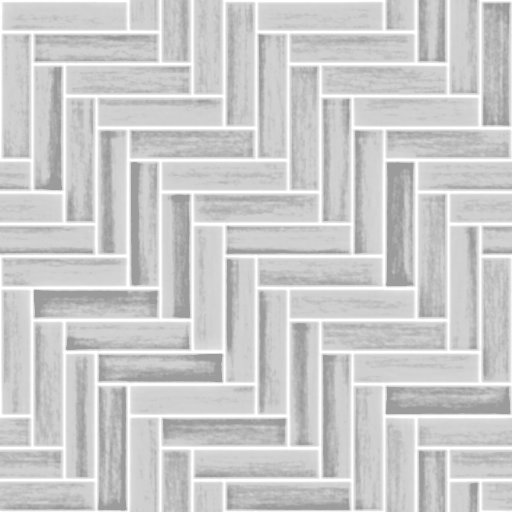
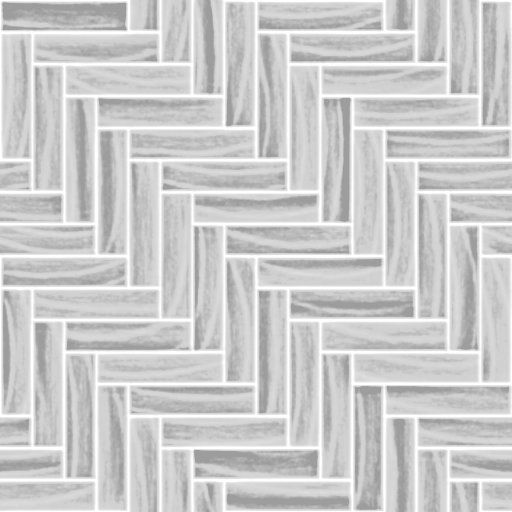
Salle 3D : parquet en chevrons veiné, tables en arc nappées, grille d’édition discrète
- Parquets en chevrons (gris, greige, chêne, miel) : vrai veinage de dosse en ogives
  au lieu de fibres droites ; le chevron gris passe sur une palette de chêne cérusé
  resserrée (l’ancienne, trop contrastée, lisait comme du métal brossé).
- Tables en arc : plateau continu (plus de 12 pavés à facettes), nappe en lin qui
  tombe jusqu’au sol avec plis évasés, retombées aux extrémités ; plateau nu sur
  pieds quand la table n’est pas nappée.
- Grille d’édition 3D translucide : elle guide la pose sans quadriller le sol.

Claude-Session: https://claude.ai/code/session_013pZHjhSB9CbZ2LPV2WquZo

diff --git a/frontend/src/components/roomCelebrationMeshes.tsx b/frontend/src/components/roomCelebrationMeshes.tsx
@@ -1,9 +1,10 @@
 'use client';
 
-import React, { useMemo, useRef } from 'react';
+import React, { useEffect, useMemo, useRef } from 'react';
 import { useFrame } from '@react-three/fiber';
 import * as THREE from 'three';
 import { loadTiledTexture } from '@/lib/roomWebGLMaterials';
+import { withRepeat } from '@/lib/roomSurfaceFinish';
 import { bulbColor, bulbsAlongSpan, stringLightPlan, type StringLightLayout, type StringLightMount, type StringLightStyle } from '@/lib/roomStringLights';
 
 const GOLD = '#c9a227';
@@ -236,42 +237,161 @@ export function arcTableRadius(size: [number, number]): number {
   return Math.max(1.4, size[0] / 2);
 }
 
-/** Plateau en C pour tables de gala organique. */
+/** Jupe de nappe courbe (secteur de cylindre ouvert) avec plis verticaux qui s’évasent vers le sol. */
+function arcSkirtGeometry(radius: number, height: number, flare: number, foldDepth: number): THREE.BufferGeometry {
+  const radial = Math.max(48, Math.round((ARC_SWEEP * radius) / 0.05));
+  const geom = new THREE.CylinderGeometry(radius, radius, height, radial, 4, true, ARC_START, ARC_SWEEP);
+  const pos = geom.attributes.position as THREE.BufferAttribute;
+  const foldsPerM = 1 / 0.24;
+  for (let i = 0; i < pos.count; i += 1) {
+    const x = pos.getX(i);
+    const y = pos.getY(i);
+    const z = pos.getZ(i);
+    const theta = Math.atan2(x, z);
+    // 0 sous le plateau, 1 au ras du sol : les plis naissent sous le bord et se creusent en tombant.
+    const f = THREE.MathUtils.clamp(0.5 - y / height, 0, 1);
+    const fold = Math.sin(theta * radius * foldsPerM * Math.PI * 2) * foldDepth * Math.pow(f, 1.4);
+    const r = radius + flare * f * f + fold;
+    pos.setXYZ(i, Math.sin(theta) * r, y, Math.cos(theta) * r);
+  }
+  geom.computeVertexNormals();
+  return geom;
+}
+
+/** Plateau en C pour tables de gala organique : plateau continu, nappe tombante plissée. */
 export function CatalogueArcTable({
   size,
   topY,
   color,
   selected,
+  cloth = true,
+  map,
+  normalMap,
 }: {
   size: [number, number];
   topY: number;
   color: string;
   selected: boolean;
+  /** Nappe jusqu’au sol (lin) ; sinon plateau nu sur ceinture et pieds. */
+  cloth?: boolean;
+  map?: THREE.Texture | null;
+  normalMap?: THREE.Texture | null;
 }) {
   const radius = arcTableRadius(size);
   const thick = Math.min(0.72, Math.max(0.48, size[1] * 0.38));
-  const segs = 12;
+  const half = thick / 2;
   const topColor = selected ? '#c7d2fe' : color;
+  const topGeom = useMemo(() => {
+    const overhang = cloth ? 0.03 : 0.01;
+    const ro = radius + half + overhang;
+    const ri = radius - half - overhang;
+    const steps = 64;
+    const shape = new THREE.Shape();
+    for (let i = 0; i <= steps; i += 1) {
+      const a = ARC_START + (i / steps) * ARC_SWEEP;
+      if (i === 0) shape.moveTo(Math.sin(a) * ro, Math.cos(a) * ro);
+      else shape.lineTo(Math.sin(a) * ro, Math.cos(a) * ro);
+    }
+    for (let i = steps; i >= 0; i -= 1) {
+      const a = ARC_START + (i / steps) * ARC_SWEEP;
+      shape.lineTo(Math.sin(a) * ri, Math.cos(a) * ri);
+    }
+    const g = new THREE.ExtrudeGeometry(shape, {
+      depth: 0.045,
+      curveSegments: 1,
+      bevelEnabled: true,
+      bevelThickness: 0.008,
+      bevelSize: 0.008,
+      bevelSegments: 2,
+    });
+    // Forme dans le plan XY : on la couche (Y du profil → Z monde), l’épaisseur part vers le bas.
+    g.rotateX(Math.PI / 2);
+    return g;
+  }, [radius, half, cloth]);
+  const skirtH = topY - 0.015;
+  const outerSkirt = useMemo(
+    () => (cloth ? arcSkirtGeometry(radius + half + 0.035, skirtH, 0.035, 0.014) : null),
+    [cloth, radius, half, skirtH],
+  );
+  const innerSkirt = useMemo(
+    () => (cloth ? arcSkirtGeometry(radius - half - 0.035, skirtH, -0.03, 0.012) : null),
+    [cloth, radius, half, skirtH],
+  );
+  useEffect(() => () => {
+    topGeom.dispose();
+    outerSkirt?.dispose();
+    innerSkirt?.dispose();
+  }, [topGeom, outerSkirt, innerSkirt]);
+  const skirtLen = ARC_SWEEP * radius;
+  const skirtMap = useMemo(() => withRepeat(map ?? null, Math.max(1, Math.round(skirtLen * 4)), 1.2), [map, skirtLen]);
+  const skirtNormal = useMemo(() => withRepeat(normalMap ?? null, Math.max(1, Math.round(skirtLen * 4)), 1.2), [normalMap, skirtLen]);
+  const endRadius = radius;
+  const endW = thick + 0.07;
   return (
     <group>
-      {Array.from({ length: segs }).map((_, i) => {
-        const t0 = ARC_START + (i / segs) * ARC_SWEEP;
-        const t1 = ARC_START + ((i + 1) / segs) * ARC_SWEEP;
-        const mid = (t0 + t1) / 2;
-        const len = Math.abs(t1 - t0) * radius;
-        return (
-          <group key={i} position={[Math.sin(mid) * radius, topY, Math.cos(mid) * radius]} rotation={[0, mid, 0]}>
-            <mesh castShadow receiveShadow>
-              <boxGeometry args={[len * 1.08, 0.06, thick]} />
-              <meshStandardMaterial color={topColor} roughness={0.55} />
+      <mesh geometry={topGeom} position={[0, topY + 0.03, 0]} castShadow receiveShadow>
+        {cloth ? (
+          <meshPhysicalMaterial
+            color={topColor}
+            map={map ?? null}
+            normalMap={normalMap ?? null}
+            normalScale={new THREE.Vector2(0.5, 0.5)}
+            roughness={0.86}
+            sheen={0.55}
+            sheenRoughness={0.6}
+            sheenColor="#ffffff"
+          />
+        ) : (
+          <meshStandardMaterial color={topColor} map={map ?? null} roughness={0.5} />
+        )}
+      </mesh>
+      {cloth && outerSkirt && innerSkirt ? (
+        <>
+          {[outerSkirt, innerSkirt].map((g, i) => (
+            <mesh key={i} geometry={g} position={[0, 0.015 + skirtH / 2, 0]} castShadow receiveShadow>
+              <meshPhysicalMaterial
+                color={topColor}
+                map={skirtMap}
+                normalMap={skirtNormal}
+                normalScale={new THREE.Vector2(0.45, 0.45)}
+                roughness={0.9}
+                sheen={0.5}
+                sheenRoughness={0.65}
+                sheenColor="#ffffff"
+                side={THREE.DoubleSide}
+              />
             </mesh>
-            <mesh position={[0, -0.14, 0]} castShadow>
-              <boxGeometry args={[len * 1.04, 0.22, thick * 0.96]} />
-              <meshStandardMaterial color={CREAM} roughness={0.9} transparent opacity={0.45} />
+          ))}
+          {/* Retombées droites aux deux extrémités de l’arc. */}
+          {[ARC_START, ARC_START + ARC_SWEEP].map((a, i) => (
+            <mesh
+              key={`end-${i}`}
+              position={[Math.sin(a) * endRadius, 0.015 + skirtH / 2, Math.cos(a) * endRadius]}
+              rotation={[0, a - Math.PI / 2, 0]}
+              castShadow
+              receiveShadow
+            >
+              <planeGeometry args={[endW, skirtH]} />
+              <meshPhysicalMaterial color={topColor} roughness={0.9} sheen={0.5} sheenColor="#ffffff" side={THREE.DoubleSide} />
             </mesh>
-          </group>
-        );
-      })}
+          ))}
+        </>
+      ) : (
+        <>
+          {[0.08, 0.36, 0.64, 0.92].flatMap((t) =>
+            [-1, 1].map((side) => {
+              const a = ARC_START + t * ARC_SWEEP;
+              const r = radius + side * (half - 0.06);
+              return (
+                <mesh key={`leg-${t}-${side}`} position={[Math.sin(a) * r, topY / 2, Math.cos(a) * r]} castShadow>
+                  <cylinderGeometry args={[0.022, 0.018, topY - 0.02, 10]} />
+                  <meshStandardMaterial color="#3f3a36" metalness={0.6} roughness={0.35} />
+                </mesh>
+              );
+            }),
+          )}
+        </>
+      )}
     </group>
   );
 }

diff --git a/frontend/src/components/RoomWebGLViewer.tsx b/frontend/src/components/RoomWebGLViewer.tsx
@@ -3972,6 +3972,13 @@ function SceneContent({
         <gridHelper
           args={[Math.max(widthM, heightM), 24, '#64748b', '#334155']}
           position={[0, 0.015, 0]}
+          // Repère d’édition discret : il guide la pose sans quadriller le sol comme un carrelage.
+          onUpdate={(grid: THREE.GridHelper) => {
+            const m = grid.material as THREE.LineBasicMaterial;
+            m.transparent = true;
+            m.opacity = 0.22;
+            m.depthWrite = false;
+          }}
         />
       ) : null}
 

diff --git a/frontend/src/components/CatalogueFurnitureMeshes.tsx b/frontend/src/components/CatalogueFurnitureMeshes.tsx
@@ -1048,6 +1048,9 @@ export function CatalogueTableStructure({
         topY={topY}
         color={topColor}
         selected={selected}
+        cloth={mat.isCloth !== false}
+        map={mat.map ?? null}
+        normalMap={mat.normalMap ?? null}
       />
     );
   }

diff --git a/frontend/scripts/textures/generate_textures.py b/frontend/scripts/textures/generate_textures.py
@@ -204,7 +204,7 @@ def wood_planks(name: str, palette: list[tuple[float, str]], seed: int, plank_w:
 
 # ───────────────────────── herringbone ─────────────────────────
 
-def herringbone(name: str, colors: list[str], seed: int, w: int = 64, ratio: int = 4, grain_strength: float = 0.2):
+def herringbone(name: str, colors: list[str], seed: int, w: int = 64, ratio: int = 4, grain_strength: float = 0.2, rings: float = 7, joint_dark: float = 0.45, tone_jitter: tuple[float, float] = (0.92, 1.06), figure: float = 0.0):
     size = SIZE
     L = w * ratio
     # Réseau : H_k en (k*w, k*w), V_k en (L + k*w, w - L + k*w) ; translation t2 trouvée par recherche.
@@ -212,6 +212,9 @@ def herringbone(name: str, colors: list[str], seed: int, w: int = 64, ratio: int
         cnt = np.zeros((size, size), dtype=np.int16)
         idm = -np.ones((size, size), dtype=np.int32)
         orient = np.zeros((size, size), dtype=np.int8)
+        # Coordonnées locales de chaque lame : u le long du fil, v en travers (pixels).
+        lu = np.zeros((size, size))
+        lv = np.zeros((size, size))
         pid = 0
         rng_i = range(-size // w - 4, size // w + 4)
         for a in rng_i:
@@ -226,15 +229,22 @@ def herringbone(name: str, colors: list[str], seed: int, w: int = 64, ratio: int
                     cnt[np.ix_(ys, xs)] += 1
                     idm[np.ix_(ys, xs)] = pid
                     orient[np.ix_(ys, xs)] = kind
+                    if kind == 0:
+                        lu[np.ix_(ys, xs)] = np.arange(pw)[None, :]
+                        lv[np.ix_(ys, xs)] = np.arange(ph)[:, None]
+                    else:
+                        lu[np.ix_(ys, xs)] = np.arange(ph)[:, None]
+                        lv[np.ix_(ys, xs)] = np.arange(pw)[None, :]
                     pid += 1
-        return cnt, idm, orient, pid
+        return cnt, idm, orient, pid, lu, lv
 
     t2 = (L + w, w - L)
-    cnt, idm, orient, count = cover(t2)
+    cnt, idm, orient, count, lu, lv = cover(t2)
     # Les motifs se recouvrent via le modulo : on garde la dernière pose (partition exacte vérifiée ci-dessous).
     rng = np.random.default_rng(seed)
-    gh = grain_field(size, seed + 3, 7, 'x')
-    gv = grain_field(size, seed + 4, 7, 'y')
+    gh = grain_field(size, seed + 3, rings, 'x')
+    gv = grain_field(size, seed + 4, rings, 'y')
+    warp_n = spectral_noise(size, seed + 5, beta=3.0)
     t = np.zeros((size, size))
     col = np.zeros((size, size, 3))
     palette = [rgb(c) for c in colors]
@@ -244,7 +254,20 @@ def herringbone(name: str, colors: list[str], seed: int, w: int = 64, ratio: int
         g = gh if orient[m][0] == 0 else gv
         dy, dx = rng.integers(0, size, 2)
         t[m] = np.roll(np.roll(g, dy, axis=0), dx, axis=1)[m]
-        c = palette[int(rng.integers(0, len(palette)))] * rng.uniform(0.92, 1.06)
+        if figure > 0:
+            # Dosse : cernes en ogives (« cathédrale ») centrées au hasard sur la lame,
+            # au lieu de fibres droites qui donnaient un aspect de métal brossé.
+            u = lu[m] / L
+            v = lv[m] / w
+            u0 = rng.uniform(0.25, 0.75)
+            curv = rng.uniform(0.6, 1.4)
+            k = rng.uniform(1.1, 1.9)
+            wob = (warp_n[m] - 0.5) * 0.35
+            phase = k * (v - rng.uniform(-0.5, 0.5) + curv * (u - u0) ** 2) + wob
+            # Bois final : liserés fins et plus sombres sur un bois de printemps clair.
+            late = np.power(0.5 + 0.5 * np.cos(2 * np.pi * phase), 6)
+            t[m] = np.clip(t[m] - figure * late + figure * 0.25, 0, 1)
+        c = palette[int(rng.integers(0, len(palette)))] * rng.uniform(*tone_jitter)
         col[m] = c
     # Joints : frontière entre identifiants différents.
     edge = np.zeros((size, size))
@@ -254,7 +277,7 @@ def herringbone(name: str, colors: list[str], seed: int, w: int = 64, ratio: int
     edge = np.maximum(edge, np.roll(edge, 1, axis=1) * 0.6)
     albedo = col * (1 - grain_strength + grain_strength * 2 * t)[..., None]
     albedo *= (0.95 + 0.1 * spectral_noise(size, seed + 8, beta=1.2))[..., None]
-    albedo *= (1 - 0.45 * edge)[..., None]
+    albedo *= (1 - joint_dark * edge)[..., None]
     height = 0.8 + 0.12 * t - 0.6 * edge
     return albedo, height
 
@@ -476,11 +499,12 @@ def main():
     a, h = epoxy_mint_gold(); save('epoxy-mint-gold', a, h, 1.5)
     a, h = flagstone(); save('flagstone', a, h, 8)
     a, h = travertine(); save('travertine', a, h, 5)
-    a, h = herringbone('herringbone-grey', ['#8b8d8f', '#6e7073', '#a6a7a6', '#5c5e61', '#c1c0bc'], 111); save('herringbone-grey', a, h, 6)
-    a, h = herringbone('parquet-oak-herringbone', ['#b98a55', '#a87a47', '#c49762', '#9c6f3f', '#b3854f'], 161); save('parquet-oak-herringbone', a, h, 6)
+    # Chêne gris cérusé : teintes resserrées et veinage marqué (l’ancienne palette, trop contrastée, lisait comme du métal brossé).
+    a, h = herringbone('herringbone-grey', ['#968f88', '#88827b', '#a29c94', '#8f8982', '#aba49c'], 111, grain_strength=0.3, joint_dark=0.32, tone_jitter=(0.95, 1.04), figure=0.3); save('herringbone-grey', a, h, 6)
+    a, h = herringbone('parquet-oak-herringbone', ['#b98a55', '#a87a47', '#c49762', '#9c6f3f', '#b3854f'], 161, figure=0.25); save('parquet-oak-herringbone', a, h, 6)
     a, h = wood_planks('oak-planks', [(0, '#9b6d3e'), (0.4, '#b58450'), (0.75, '#c89a64'), (1, '#d6ad78')], 171, plank_w=128, rings=9, tone_var=0.1)
     save('oak-planks', a, h, 6)
-    a, h = herringbone('herringbone-greige', ['#c3b8a6', '#b3a794', '#cfc5b4', '#a99d8a'], 121); save('herringbone-greige', a, h, 6)
+    a, h = herringbone('herringbone-greige', ['#c3b8a6', '#b3a794', '#cfc5b4', '#a99d8a'], 121, figure=0.25); save('herringbone-greige', a, h, 6)
     a, h = wood_planks('wood-blonde', [(0, '#b89a72'), (0.4, '#cdb38e'), (0.75, '#dcc6a4'), (1, '#e8d8bb')], 131, plank_w=128, rings=8, tone_var=0.08)
     save('wood-blonde', a, h, 6)
     a, h = wood_planks('wood-charcoal', [(0, '#2e2c2a'), (0.45, '#434039'), (0.8, '#58544c'), (1, '#6a655b')], 141, plank_w=102, rings=10, tone_var=0.14)

diff --git a/frontend/scripts/textures/generate_surfaces.py b/frontend/scripts/textures/generate_surfaces.py
@@ -1092,7 +1092,7 @@ JOBS = {
     # Minéraux
     'concrete': lambda: (concrete(591), 5),
     'epoxy-grey': lambda: (concrete(595, ('#bcc3cc', '#c9cfd6', '#d6dbe1'), joints=0), 1.2),
-    'herringbone-honey': lambda: (herringbone('herringbone-honey', ['#c8955a', '#b9864c', '#d3a26a', '#ad7a42', '#c08d52'], 181), 6),
+    'herringbone-honey': lambda: (herringbone('herringbone-honey', ['#c8955a', '#b9864c', '#d3a26a', '#ad7a42', '#c08d52'], 181, figure=0.25), 6),
     'concrete-polished': lambda: (concrete(601, ('#7f7c76', '#95928b', '#a9a59d'), polished=True, joints=1), 2.5),
     'terrazzo-classic': lambda: (terrazzo(611, 2600, ['#9a9690', '#c9c3b8', '#5d5a55', '#d8d2c6', '#b7a58c', '#7d7a74']), 2),
     'terrazzo-venetian': lambda: (terrazzo(621, 1100, ['#b3746a', '#e2ddd3', '#6e6a63', '#c9a77d', '#8e3d33', '#f0ece4', '#355e58'], ('#e2dcd0', '#ece7de'), (6, 18)), 2),
